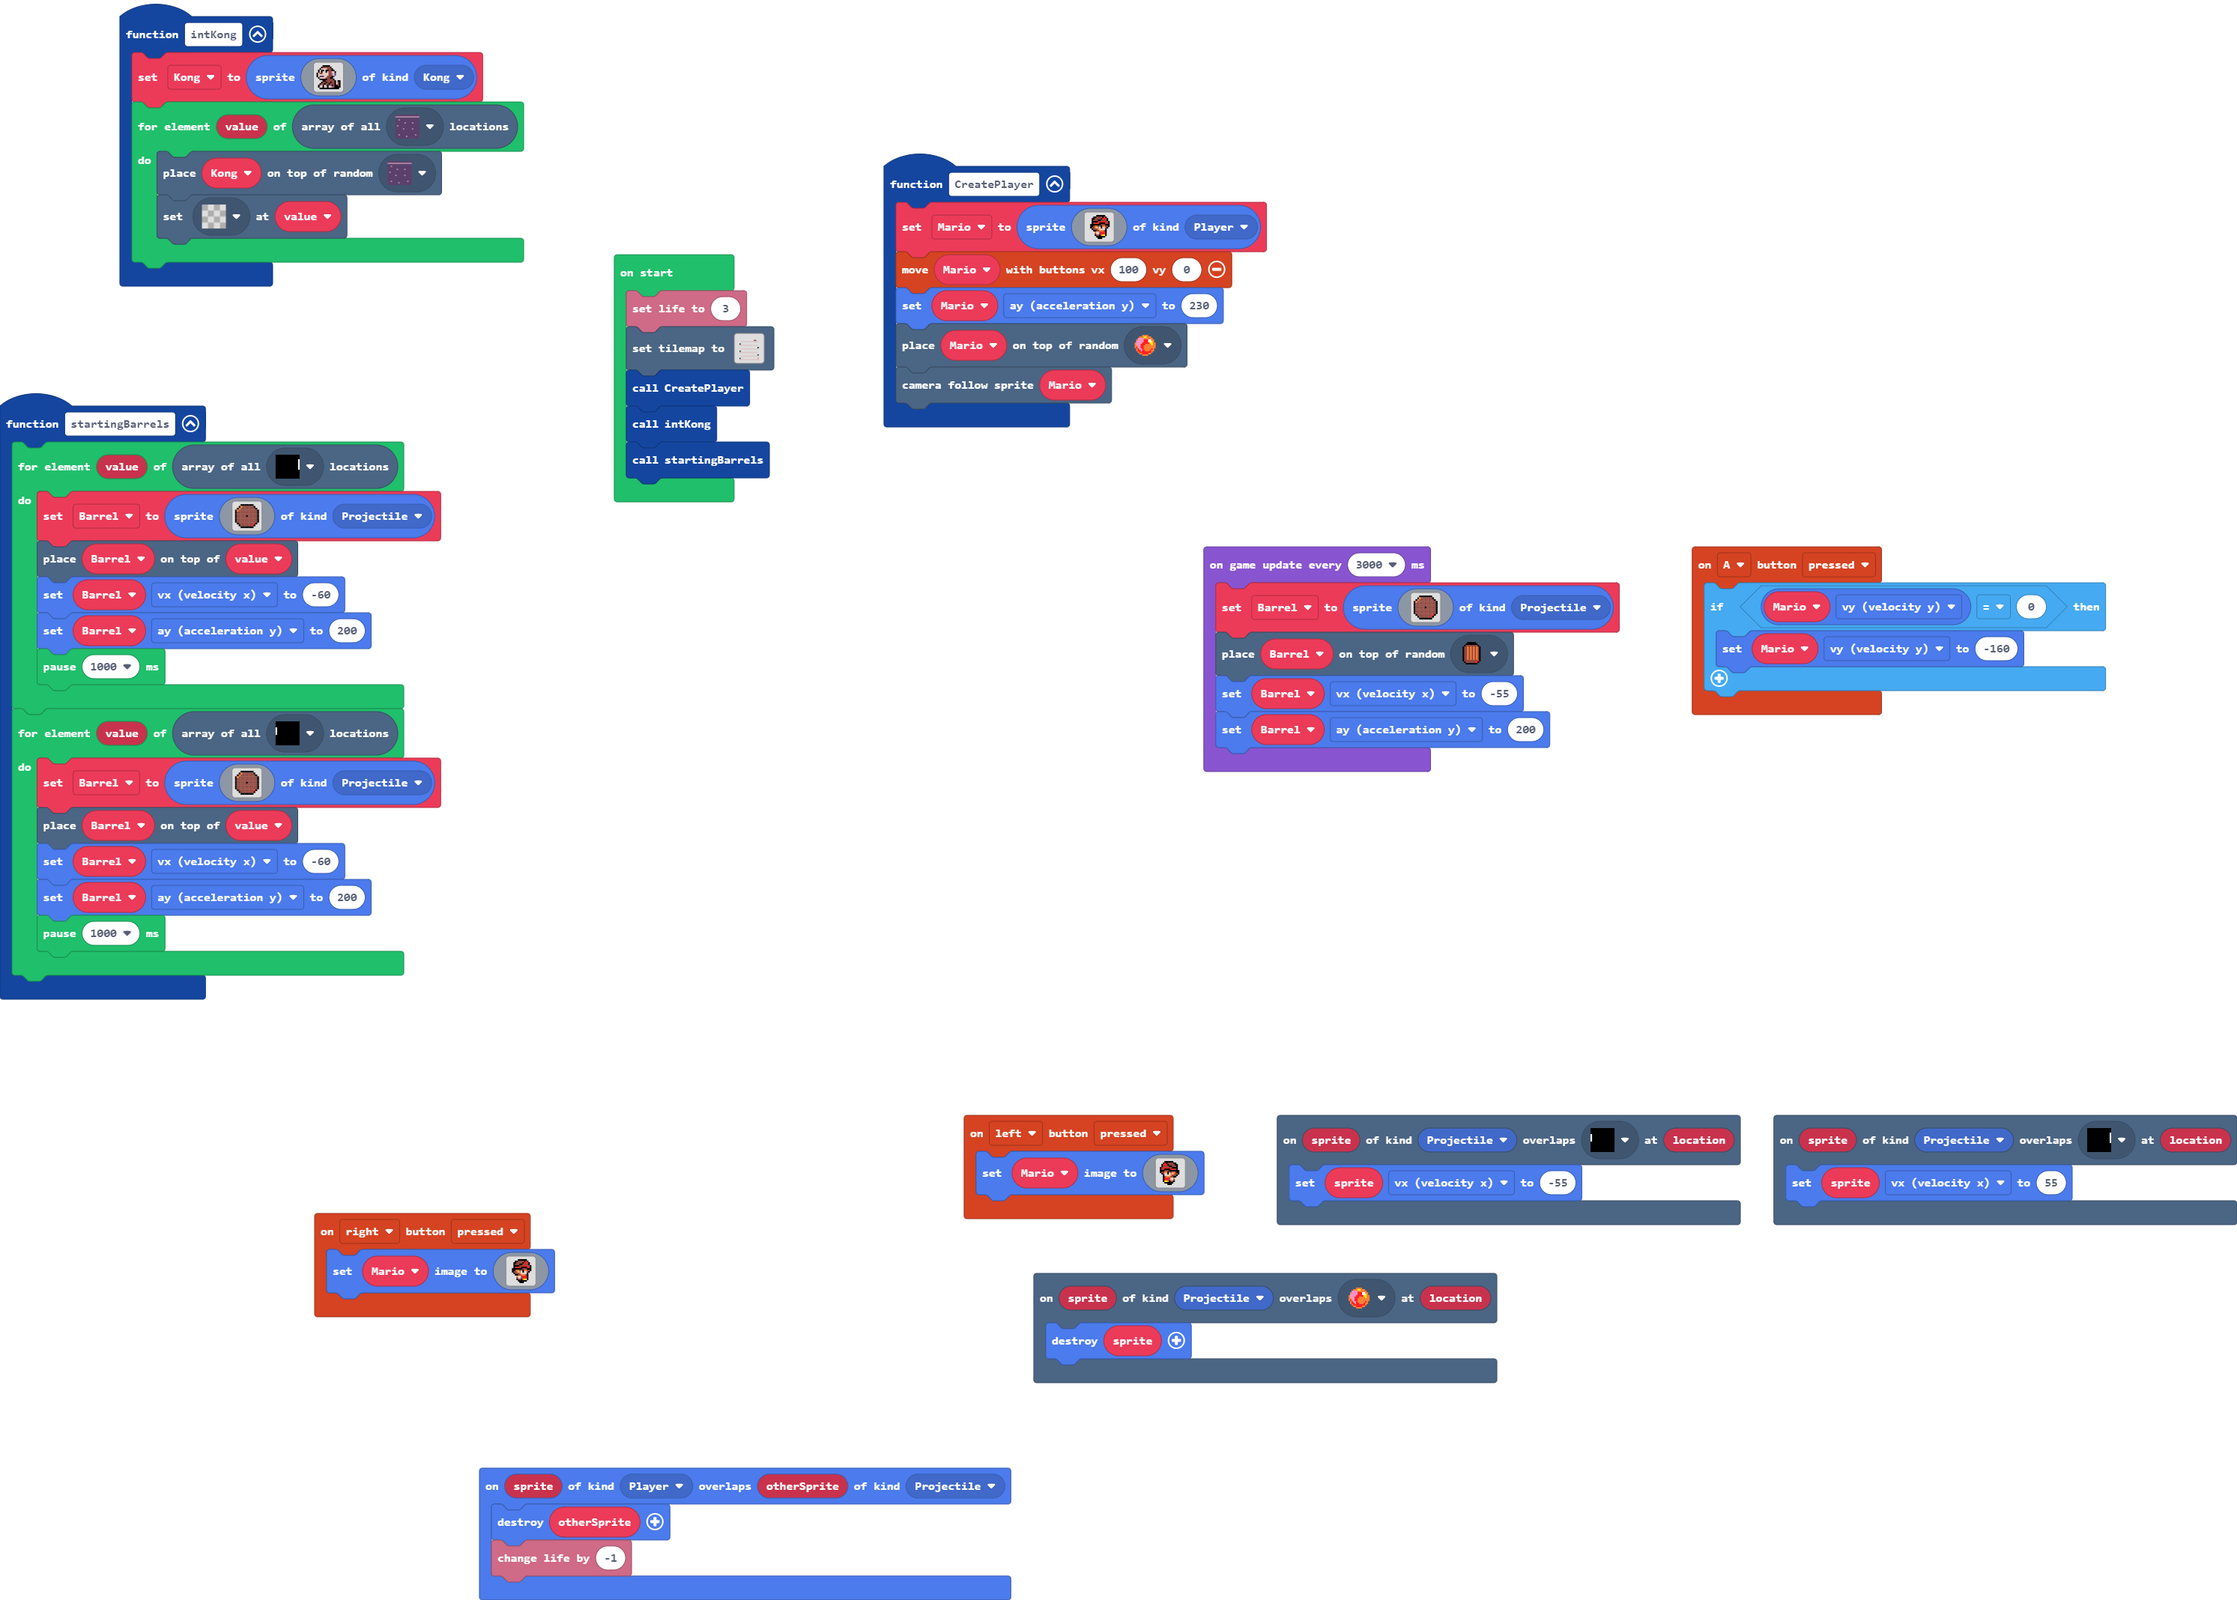
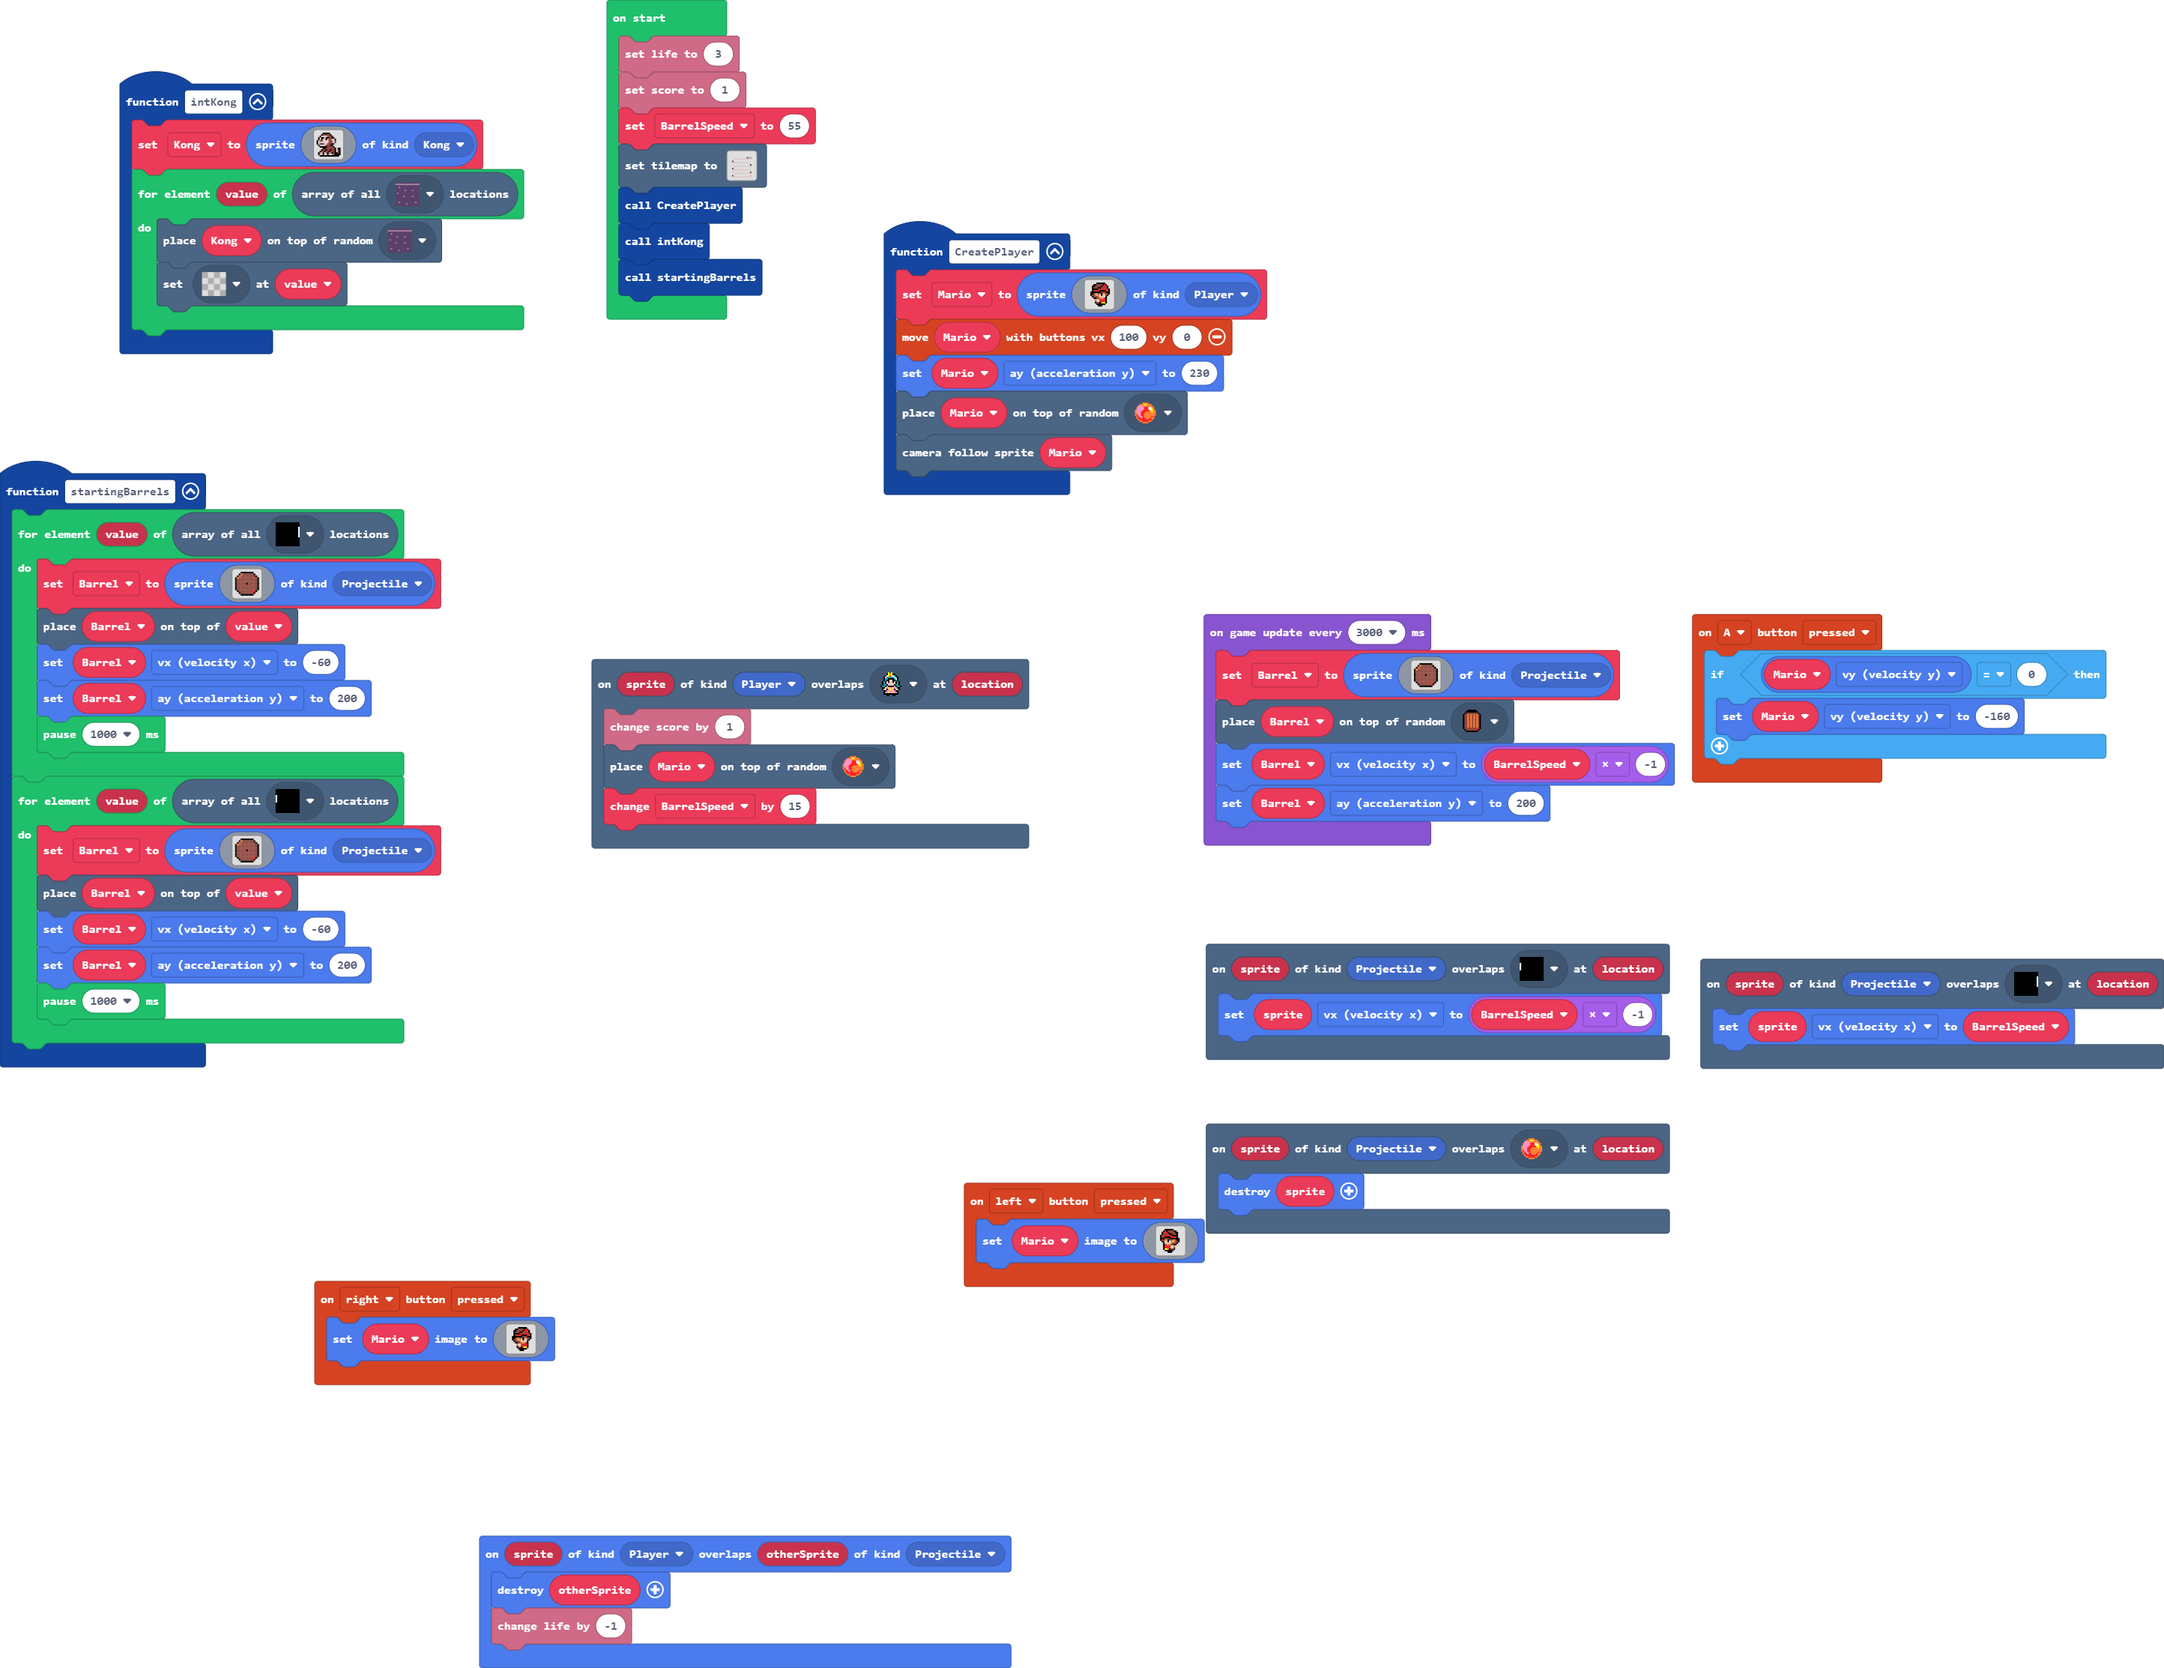
Made You be able to win, and go to the next level.

diff --git a/tilemap.g.ts b/tilemap.g.ts
@@ -8,11 +8,13 @@ namespace myTiles {
     export const tile2 = image.ofBuffer(hex``);
     //% fixedInstance jres blockIdentity=images._tile
     export const tile3 = image.ofBuffer(hex``);
+    //% fixedInstance jres blockIdentity=images._tile
+    export const tile4 = image.ofBuffer(hex``);
 
     helpers._registerFactory("tilemap", function(name: string) {
         switch(helpers.stringTrim(name)) {
             case "level1":
-            case "level1":return tiles.createTilemap(hex`100014000000000000000000000000000000000000000000000000000000000000000000000000000000000000000000000000000000000000000000000000000506000000010101010101010101010101010101000000000000000000000000000000000200000000000000000000000000000001010101010101010101010101010100000000000000000000000000000000000000000000000000000000000000000300010101010101010101010101010101000000000000000000000000000000000200000000000000000000000000000001010101010101010101010101010100000000000000000000000000000000000000000000000000000000000000000300010101010101010101010101010101000000000000000000000000000000000200000000000000000000000000000401010101010101010101010101010101`, img`
+            case "level1":return tiles.createTilemap(hex`100014000000000000000000000000000000000000000000000000000000000000000000000000000000000000000000000000000000000000000000000000000506000700010101010101010101010101010101000000000000000000000000000000000200000000000000000000000000000001010101010101010101010101010100000000000000000000000000000000000000000000000000000000000000000300010101010101010101010101010101000000000000000000000000000000000200000000000000000000000000000001010101010101010101010101010100000000000000000000000000000000000000000000000000000000000000000300010101010101010101010101010101000000000000000000000000000000000200000000000000000000000000000401010101010101010101010101010101`, img`
 ................
 ................
 ................
@@ -33,7 +35,7 @@ namespace myTiles {
 ................
 ................
 2222222222222222
-`, [myTiles.transparency16,sprites.dungeon.floorLight0,myTiles.tile1,myTiles.tile2,sprites.dungeon.collectibleRedCrystal,myTiles.tile3,sprites.dungeon.darkGroundNorth], TileScale.Sixteen);
+`, [myTiles.transparency16,sprites.dungeon.floorLight0,myTiles.tile1,myTiles.tile2,sprites.dungeon.collectibleRedCrystal,myTiles.tile3,sprites.dungeon.darkGroundNorth,myTiles.tile4], TileScale.Sixteen);
         }
         return null;
     })
@@ -47,6 +49,8 @@ namespace myTiles {
             case "tile2":return tile2;
             case "myTile1":
             case "tile3":return tile3;
+            case "myTile2":
+            case "tile4":return tile4;
         }
         return null;
     })

diff --git a/main.ts b/main.ts
@@ -26,7 +26,7 @@ function CreatePlayer () {
     scene.cameraFollowSprite(Mario)
 }
 scene.onOverlapTile(SpriteKind.Projectile, assets.tile`myTile`, function (sprite, location) {
-    sprite.vx = 55
+    sprite.vx = BarrelSpeed
 })
 controller.A.onEvent(ControllerButtonEvent.Pressed, function () {
     if (Mario.vy == 0) {
@@ -102,7 +102,12 @@ function intKong () {
     }
 }
 scene.onOverlapTile(SpriteKind.Projectile, assets.tile`myTile0`, function (sprite, location) {
-    sprite.vx = -55
+    sprite.vx = BarrelSpeed * -1
+})
+scene.onOverlapTile(SpriteKind.Player, assets.tile`myTile2`, function (sprite, location) {
+    info.changeScoreBy(1)
+    tiles.placeOnRandomTile(Mario, sprites.dungeon.collectibleRedCrystal)
+    BarrelSpeed += 15
 })
 scene.onOverlapTile(SpriteKind.Projectile, sprites.dungeon.collectibleRedCrystal, function (sprite, location) {
     sprite.destroy()
@@ -154,7 +159,10 @@ function startingBarrels () {
 let Barrel: Sprite = null
 let Kong: Sprite = null
 let Mario: Sprite = null
+let BarrelSpeed = 0
 info.setLife(3)
+info.setScore(1)
+BarrelSpeed = 55
 tiles.setTilemap(tilemap`level1`)
 CreatePlayer()
 intKong()
@@ -176,6 +184,6 @@ game.onUpdateInterval(3000, function () {
         . . . f f f f f f f . . . 
         `, SpriteKind.Projectile)
     tiles.placeOnRandomTile(Barrel, assets.tile`myTile1`)
-    Barrel.vx = -55
+    Barrel.vx = BarrelSpeed * -1
     Barrel.ay = 200
 })
